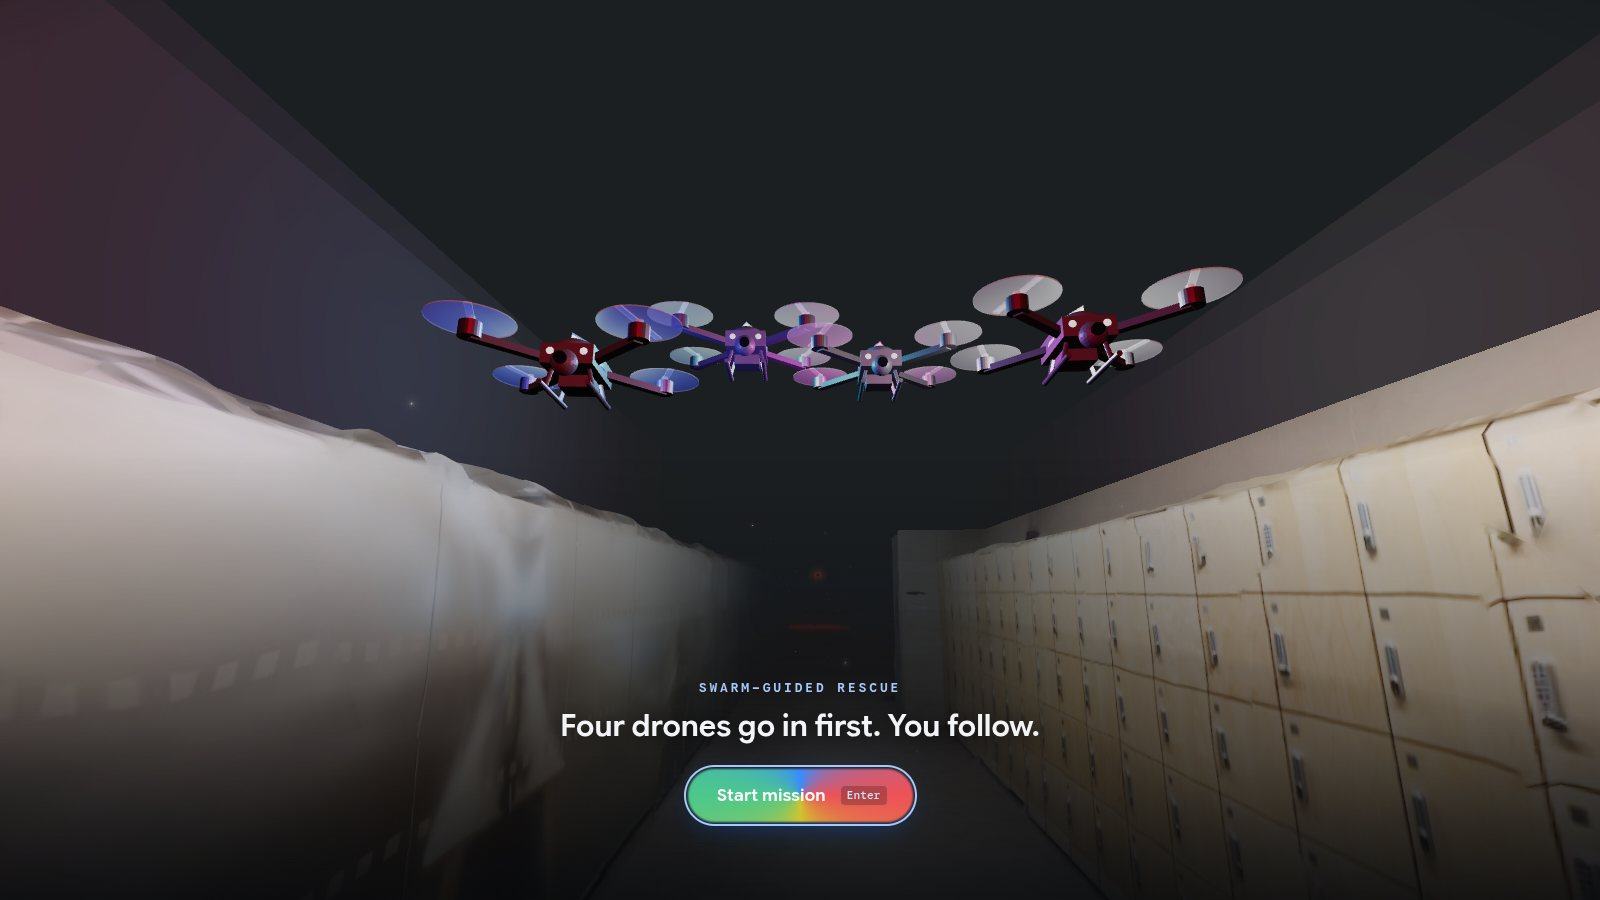
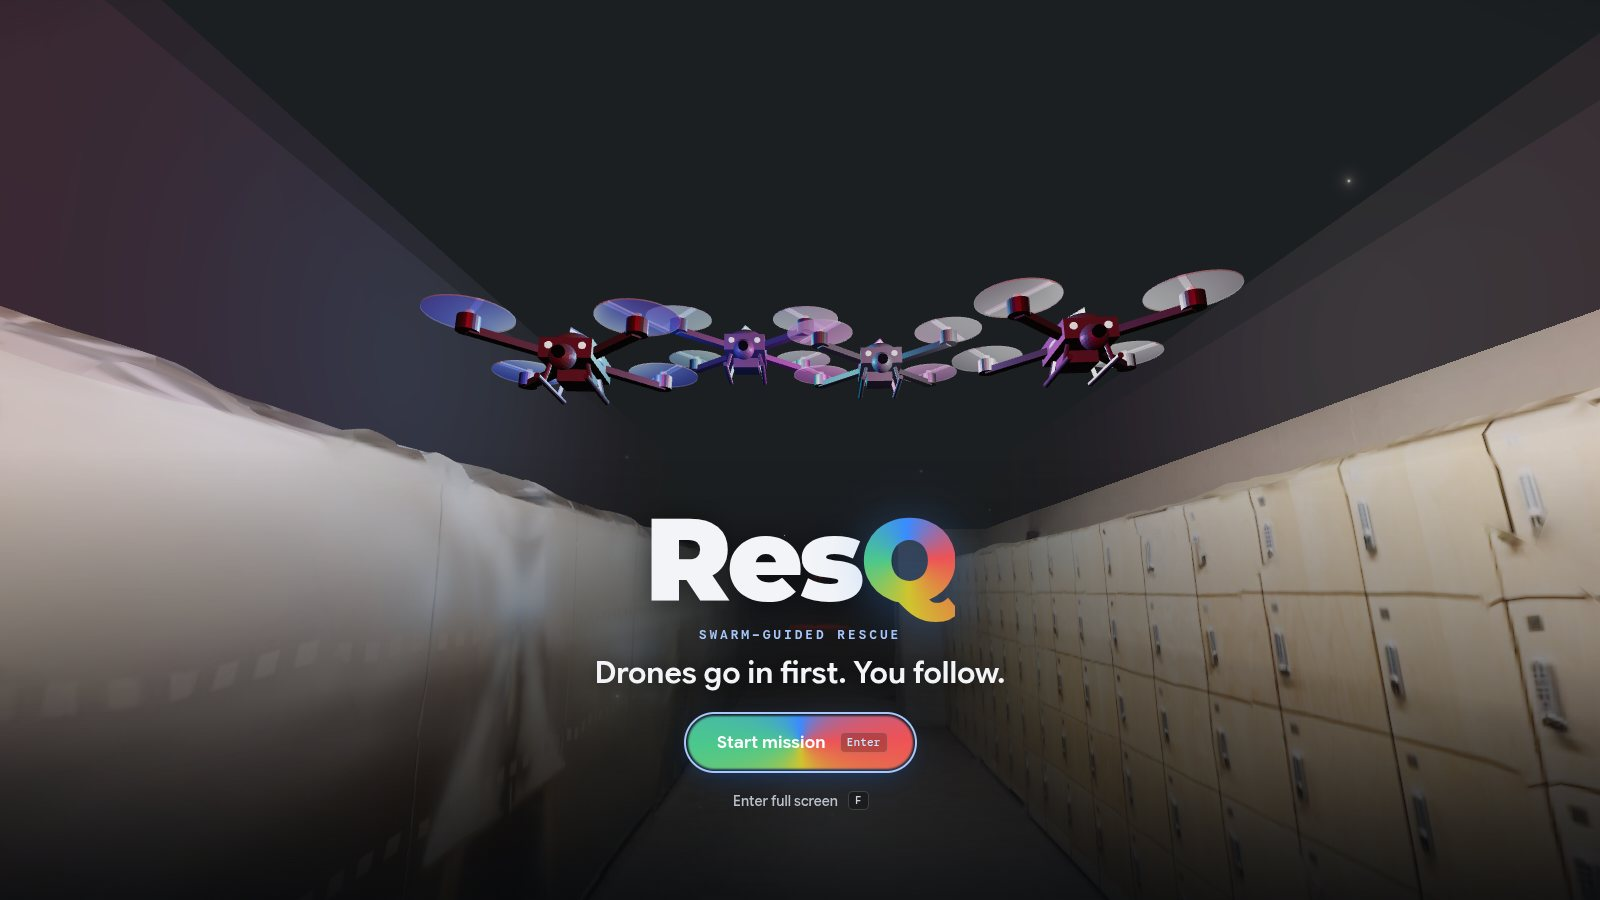
README: ResQ start screen and a How to run section near the bottom
- Title is now ResQ, with Swarm-Guided Rescue under it (matches the start screen).
- New start-screen screenshot (ResQ wordmark, "Drones go in first. You follow.",
  Enter full screen button) and captions updated.
- Quick start becomes How to run, moved down above Team, with a start-screen guide:
  Start, Enter full screen (F), Mission paused with Resume / Restart, and safe refresh.
- Gemini design language row mentions the spark-coloured Q.

Changed region(s): [[0.3438, 0.56, 0.6562, 0.9333], [0.25, 0.28, 0.7812, 0.4667]]

diff --git a/README.md b/README.md
@@ -1,6 +1,8 @@
 <div align="center">
 
-# Swarm-Guided Rescue
+# ResQ
+
+### Swarm-Guided Rescue
 
 **A phone scan of a real building becomes a live fire simulation. Four drones search it with their own sensors and an on-device Gemma model, re-plan when the building changes, then guide a firefighter to the survivor by voice and light.**
 
@@ -42,11 +44,11 @@
 
 <table>
 <tr>
-<td width="50%"><img src="docs/media/start-frame.jpg" alt="Start frame: the firefighter's view from the entrance with four drones overhead"></td>
+<td width="50%"><img src="docs/media/start-frame.jpg" alt="ResQ start screen: the firefighter's view from the entrance with the drones overhead"></td>
 <td width="50%"><img src="docs/media/dashboard-fire-confirmed.jpg" alt="Mission control dashboard during Act 1"></td>
 </tr>
 <tr>
-<td><b>Deploy.</b> The mission opens from the firefighter's view at the entrance, four drones hovering overhead. Pressing <kbd>Start</kbd> sends them in.</td>
+<td><b>Deploy.</b> The ResQ start screen puts you in the firefighter's view at the entrance, the drones hovering overhead: <i>"Drones go in first. You follow."</i> Pressing <kbd>Start mission</kbd> sends them in.</td>
 <td><b>Act 1: mission control.</b> The drones fan out, map the building, confirm four fires, lose one drone to a flare-up, find the survivor and form a relay chain.</td>
 </tr>
 <tr>
@@ -198,7 +200,7 @@ In Act 2 the firefighter can't read a map. They're in smoke, following lights an
 | **A personality for each drone** | `gemini-3.5-flash-lite` | Rewords the drone's line in its own character, in about 0.5 s: D1 a calm team leader, D2 warm and encouraging, D3 upbeat and quick, D4 precise and softly spoken. Used for the intro, progress updates and "wait for me" / "coming back to you" lines | Guidance feels like a team talking you in, not a looped recording. The same facts come out in fresh words, so repeated instructions don't become background noise |
 | **A distinct voice for each drone** | `gemini-3.8-flash-lite-tts` | Voices every drone line with its own prebuilt voice (D1 Charon, D2 Kore, D3 Puck, D4 Aoede) in about 2 s. The heads-up guidance lines get a calm "incident commander" voice (Orus), generated once at startup so they play instantly | With no visibility, the firefighter can tell **which drone** is speaking, and hear a handover from one checkpoint drone to the next, by voice alone |
 | **Gemma: Gemini's open sibling, on-device** | `gemma4:e4b` via Ollama | Checks every fire or survivor candidate from the drone cameras and returns a verdict, a confidence and a short caption ("Flames on the floor ahead.") | Gave us Gemini-family vision with **no network**, inside the control loop, on an 8 GB laptop GPU. The captions go straight into the decision log as evidence |
-| **Gemini design language** | — | The dashboard uses Gemini's four-point spark and colours to show AI at work: the spark on the loading screen, a Gemini-coloured glow on the 3D view and drone tiles while a Gemma check is running, the "confirmed" chip, and the ring on the Start button | Viewers can see at a glance when the AI is thinking and what it decided |
+| **Gemini design language** | — | The dashboard uses Gemini's four-point spark and colours to show AI at work: the spark on the loading screen, a Gemini-coloured glow on the 3D view and drone tiles while a Gemma check is running, the "confirmed" chip, the ring on the Start button, and the spark-coloured Q of the ResQ wordmark that turns with it | Viewers can see at a glance when the AI is thinking and what it decided |
 
 **Built so a cloud model can never put the firefighter at risk:**
 
@@ -278,7 +280,7 @@ The result: a **39 × 52 m** twin with 13 route nodes, 4 fires, 4 debris piles, 
 </tr>
 <tr>
 <td><b>Swarm links.</b> Relay tree from the entrance to each drone over the mapped route graph. It's a visual aid, not a simulated radio.</td>
-<td><b>Start-up.</b> The dashboard stays behind a loading cover until the sim, scan and models are ready, then holds the sim at t = 0 for the Start button.</td>
+<td><b>Start-up.</b> The dashboard stays behind a loading cover until the sim, scan and models are ready, then holds the sim at t = 0 on the ResQ start screen. Refreshing there re-arms in a few seconds.</td>
 </tr>
 </table>
 
@@ -321,54 +323,6 @@ flowchart LR
 
 ---
 
-## Quick start
-
-**Requirements:** Python 3.12, [uv](https://docs.astral.sh/uv/), Node 22. For real perception: [Ollama](https://ollama.com) with `gemma4:e4b` and a GPU with about 5 GB free.
-
-```bash
-# 1. Python deps
-uv sync
-
-# 2. Build the dashboard (the server serves web/dist)
-cd web && npm install && npm run build && cd ..
-
-# 3. Run the demo map with mock perception (no GPU needed)
-uv run sgr --map maps/marshgate-route --perception mock --voice template
-#    → open http://127.0.0.1:8000 and press Start
-```
-
-**With real, on-device Gemma (the demo setup):**
-
-```bash
-ollama pull gemma4:e4b
-uv run sgr --map maps/marshgate-route --perception local --voice template
-```
-
-**With Gemini drone voices:** put your key in `.env` as `GOOGLE_API_KEY=...` (or `GEMINI_API_KEY`) and run with `--voice auto` (the default) or `--voice gemini`. The console prints which Gemini models are voicing the drones.
-
-```bash
-uv run sgr --map maps/marshgate-route --perception local --voice gemini
-```
-
-**In the dashboard:**
-
-| Key / action | What it does |
-|---|---|
-| <kbd>Enter</kbd> | Start the mission from the start frame. On a run that's already under way: <kbd>Enter</kbd> resumes, <kbd>R</kbd> restarts Act 1 |
-| Click a tile | Focus it (<kbd>Esc</kbd> to go back) |
-| Click tool on the 3D map | Drop debris or start a fire anywhere; the drones only find out through their sensors |
-| ■ on a drone feed | Fail that drone (it loses its signal) |
-| <kbd>G</kbd> | Send in the firefighter (Act 2), once the chain is in position |
-| <kbd>W</kbd><kbd>A</kbd><kbd>S</kbd><kbd>D</kbd>, arrows, mouse | Walk and look in the firefighter view |
-| <kbd>V</kbd> | Firefighter view: toggle Online · Gemini voices / Offline · text only |
-| <kbd>F</kbd> | Full screen |
-
-**Useful flags:** `--speed 2.5` (faster for video), `--no-render` (no camera rendering), `--no-server --max-ticks 600` (headless), `--voice auto|gemini|template|off`.
-
-**Tests:** `uv run pytest -q`
-
----
-
 ## Repository layout
 
 ```text
@@ -399,6 +353,61 @@ docs/media/     README images and clips (captured from a real run)
 - **The edge budget is measured in the backend but not shown on the dashboard** in this build. The measured numbers are in the table above.
 - **The firefighter's position in Act 2 comes straight from the sim** (standing in for a body-worn tracker); the drones still only learn about hazards through their sensors.
 - **Screens and clips in this README** were captured with `--perception mock` (scripted Gemma answers with simulated latency), so they could be recorded on a machine without the demo GPU.
+
+---
+
+## How to run
+
+**Requirements:** Python 3.12, [uv](https://docs.astral.sh/uv/), Node 22. For real perception: [Ollama](https://ollama.com) with `gemma4:e4b` and a GPU with about 5 GB free.
+
+```bash
+# 1. Python deps
+uv sync
+
+# 2. Build the dashboard (the server serves web/dist)
+cd web && npm install && npm run build && cd ..
+
+# 3. Run the demo map with mock perception (no GPU needed)
+uv run sgr --map maps/marshgate-route --perception mock --voice template
+#    → open http://127.0.0.1:8000, wait for the ResQ start screen, press Start mission
+```
+
+**With real, on-device Gemma (the demo setup):**
+
+```bash
+ollama pull gemma4:e4b
+uv run sgr --map maps/marshgate-route --perception local --voice template
+```
+
+**With Gemini drone voices:** put your key in `.env` as `GOOGLE_API_KEY=...` (or `GEMINI_API_KEY`) and run with `--voice auto` (the default) or `--voice gemini`. The console prints which Gemini models are voicing the drones.
+
+```bash
+uv run sgr --map maps/marshgate-route --perception local --voice gemini
+```
+
+**The start screen.** While the sim connects and the 3D scan loads, a loading cover shows a drone flying around the Gemini spark. When everything is ready, the sim is held at t = 0 and the **ResQ** start screen appears: the firefighter's view from the entrance with the drones overhead, the tagline *"Drones go in first. You follow."*, and:
+
+- **Start mission** (<kbd>Enter</kbd>) fades onto the dashboard and runs Act 1.
+- **Enter full screen** (<kbd>F</kbd>) goes full screen before you start (it becomes *Exit full screen* once you're in). Best for a live demo or a recording.
+- If you open the page on a run that's already under way, it says **Mission paused** and offers **Resume mission** (<kbd>Enter</kbd>) or **Restart mission** (<kbd>R</kbd>, back to the start of Act 1).
+- Refreshing the page on the start screen is safe: the sim stays paused and the screen is ready again within a few seconds.
+
+**In the dashboard:**
+
+| Key / action | What it does |
+|---|---|
+| <kbd>Enter</kbd> / <kbd>R</kbd> | Start screen: start (or resume) the mission / restart Act 1 when resuming |
+| Click a tile | Focus it (<kbd>Esc</kbd> to go back) |
+| Click tool on the 3D map | Drop debris or start a fire anywhere; the drones only find out through their sensors |
+| ■ on a drone feed | Fail that drone (it loses its signal) |
+| <kbd>G</kbd> | Send in the firefighter (Act 2), once the chain is in position |
+| <kbd>W</kbd><kbd>A</kbd><kbd>S</kbd><kbd>D</kbd>, arrows, mouse | Walk and look in the firefighter view |
+| <kbd>V</kbd> | Firefighter view: toggle Online · Gemini voices / Offline · text only |
+| <kbd>F</kbd> | Full screen, anywhere (also the button on the start screen and the top-right corner of the dashboard) |
+
+**Useful flags:** `--speed 2.5` (faster for video), `--no-render` (no camera rendering), `--no-server --max-ticks 600` (headless), `--voice auto|gemini|template|off`.
+
+**Tests:** `uv run pytest -q`
 
 ---
 
